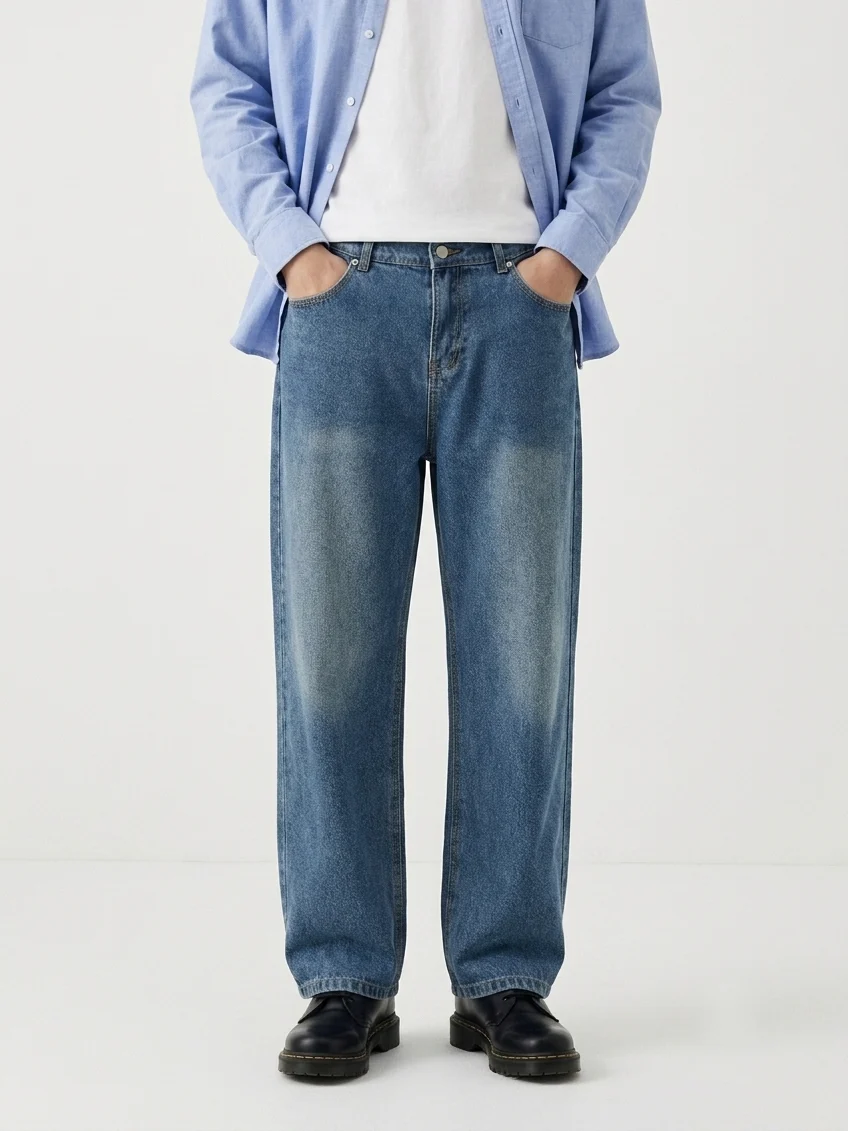
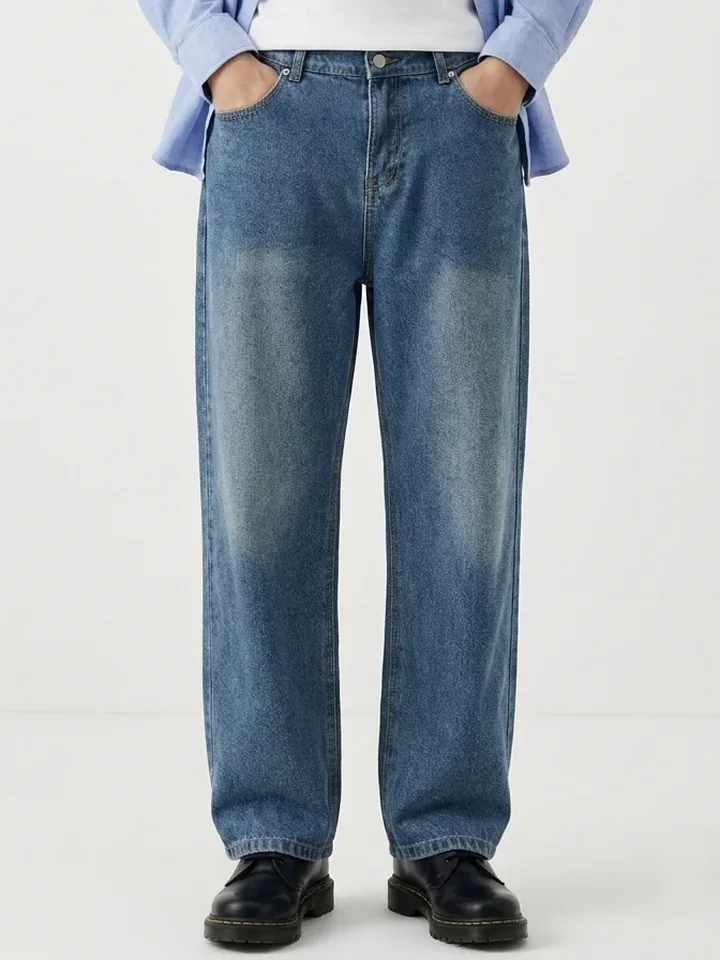
세미와이드 데님 팬츠 Blue 썸네일 확대: 허리부터 신발까지
Claude-Session: https://claude.ai/code/session_01KQMEfT2ai38yMadH4zStAs

Changed region(s): [[0.1833, 0.0, 0.825, 1.0]]

diff --git a/js/ai_works.js b/js/ai_works.js
@@ -425,7 +425,7 @@ window.AI_WORKS = [
     product: '세미와이드 데님 팬츠',
     title: '세미와이드 데님 팬츠 Blue',
     thumb: 'img/ai/tommyping/blue-thumb.webp',
-    thumbPos: '50% 85%',
+    thumbPos: '50% 50%',
     models: [
       'img/ai/tommyping/blue-1.webp',
       'img/ai/tommyping/blue-2.webp',
